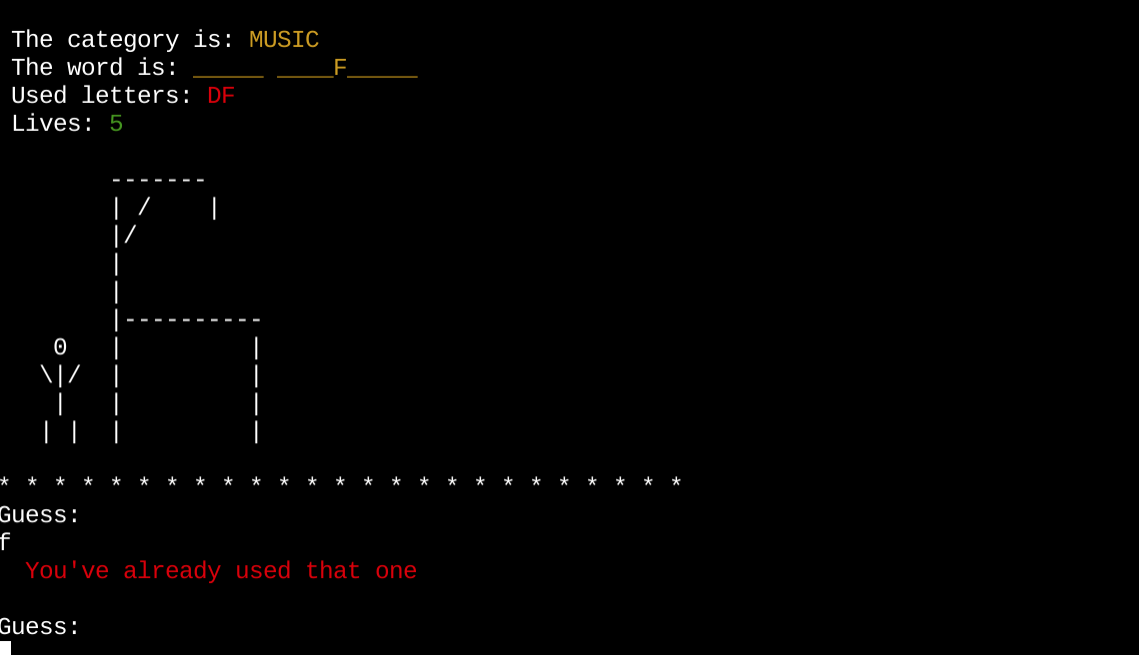
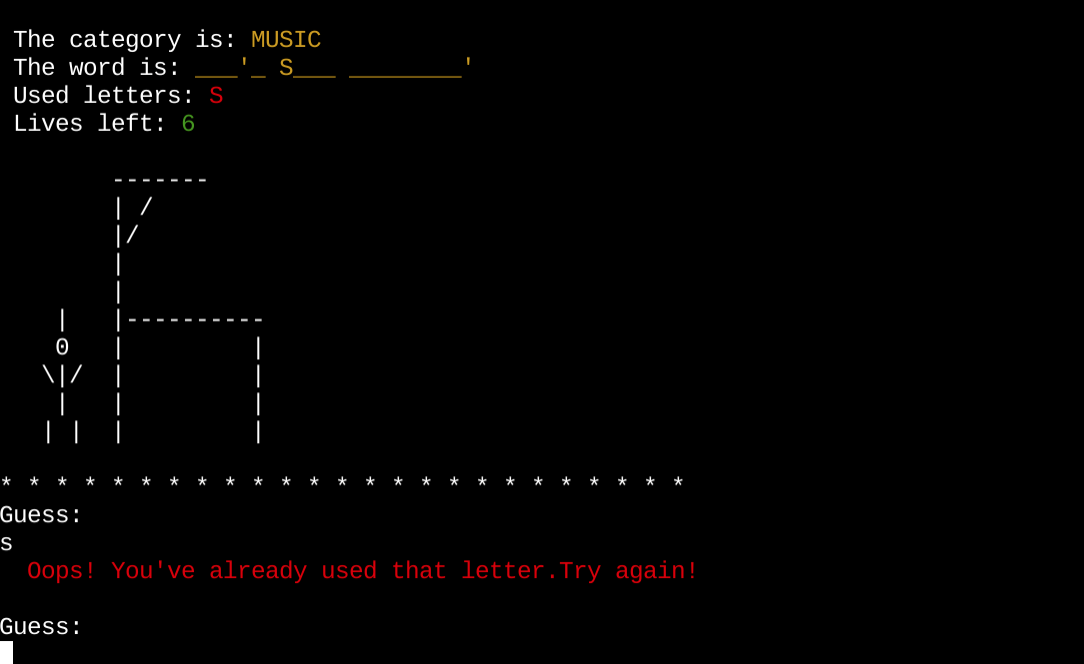
Update imges,
update the gameboard

diff --git a/README.md b/README.md
@@ -21,7 +21,7 @@ Play against the computer. A random word from a random category is generated and
 ### Welcome View
 This is the first view. It contains instructions on how to play the game. The player hits Enter to start the game. The word 'Enter' is underlined to draw attention to start the game.
 
-![welcome_start](documents/welcome_start.png)
+![welcome](documents/welcome.png)
 
 ### The Gameboard View
 The game status summary is shown and updated after each turn:
@@ -34,22 +34,15 @@ The game status summary is shown and updated after each turn:
 
 ![gameboard](documents/gameboard.png)
 
-### Oops! You've already used that letter. Try again!
+### Feedback/error messages
 
-Error message in red to draw the player's attention.
+* Oops! You've already used that letter. Try again!
+* Please enter only one letter
+* Oops! That's not a letter. Please enter a valid letter
 
-![already_used](documents/already_used.png)
+Messages printed in red to draw the player's attention.
 
-### Please enter only one letter
-
-The warning message is printed in red to convey the importance of the message.
-
-![one_letter_only](documents/one_letter_only.png)
-
-### Oops! That's not a letter. Please enter a valid letter
-The warning message is printed in red to alert the player.
-
-![must_be_letter](documents/must_be_letter.png)
+![feedback](documents/feedback.png)
 
 ### GAME OVER
 So sorry! You lose... is printed in red to emphasize the loss.
@@ -68,6 +61,8 @@ The player can choose to play again by pressing 'y' or any other letter to end t
 
 ### Welcome Back
 A welcome back message is displayed when the player decides to quit the game, providing a friendly ending experience.
+
+![welcome_back](documents/welcome_back.png)
 
 ### Future Features
 * Allow the player to select a category
@@ -112,7 +107,7 @@ This workflow follows the standard hangman game logic, where the player attempts
 
 **Feedback messages work without issues**
 
-![feedback_messages](documents/feedback_message.png)
+![feedback_messages](documents/feedback.png)
 
 ### Bugs & Fixes
 
@@ -120,7 +115,7 @@ This workflow follows the standard hangman game logic, where the player attempts
 * Split up functionsninto smaller, more manageable functions to improve readability and maintainability.
 * Organized and chained functions. Grouping related functions together and connecting them in a sequential manner to enhance code organization.
 * Passed parameters where necessary to improve flexibility, reduce complexity, and enhance testability.
-* Added Colorama
+* Added Colorama to add some colors to the UI
 * Add a general feedback message for guessing the same letter that has already been revealed in the hidden word
 * Added a Welcome back message when the user chooses to quit the game
 
